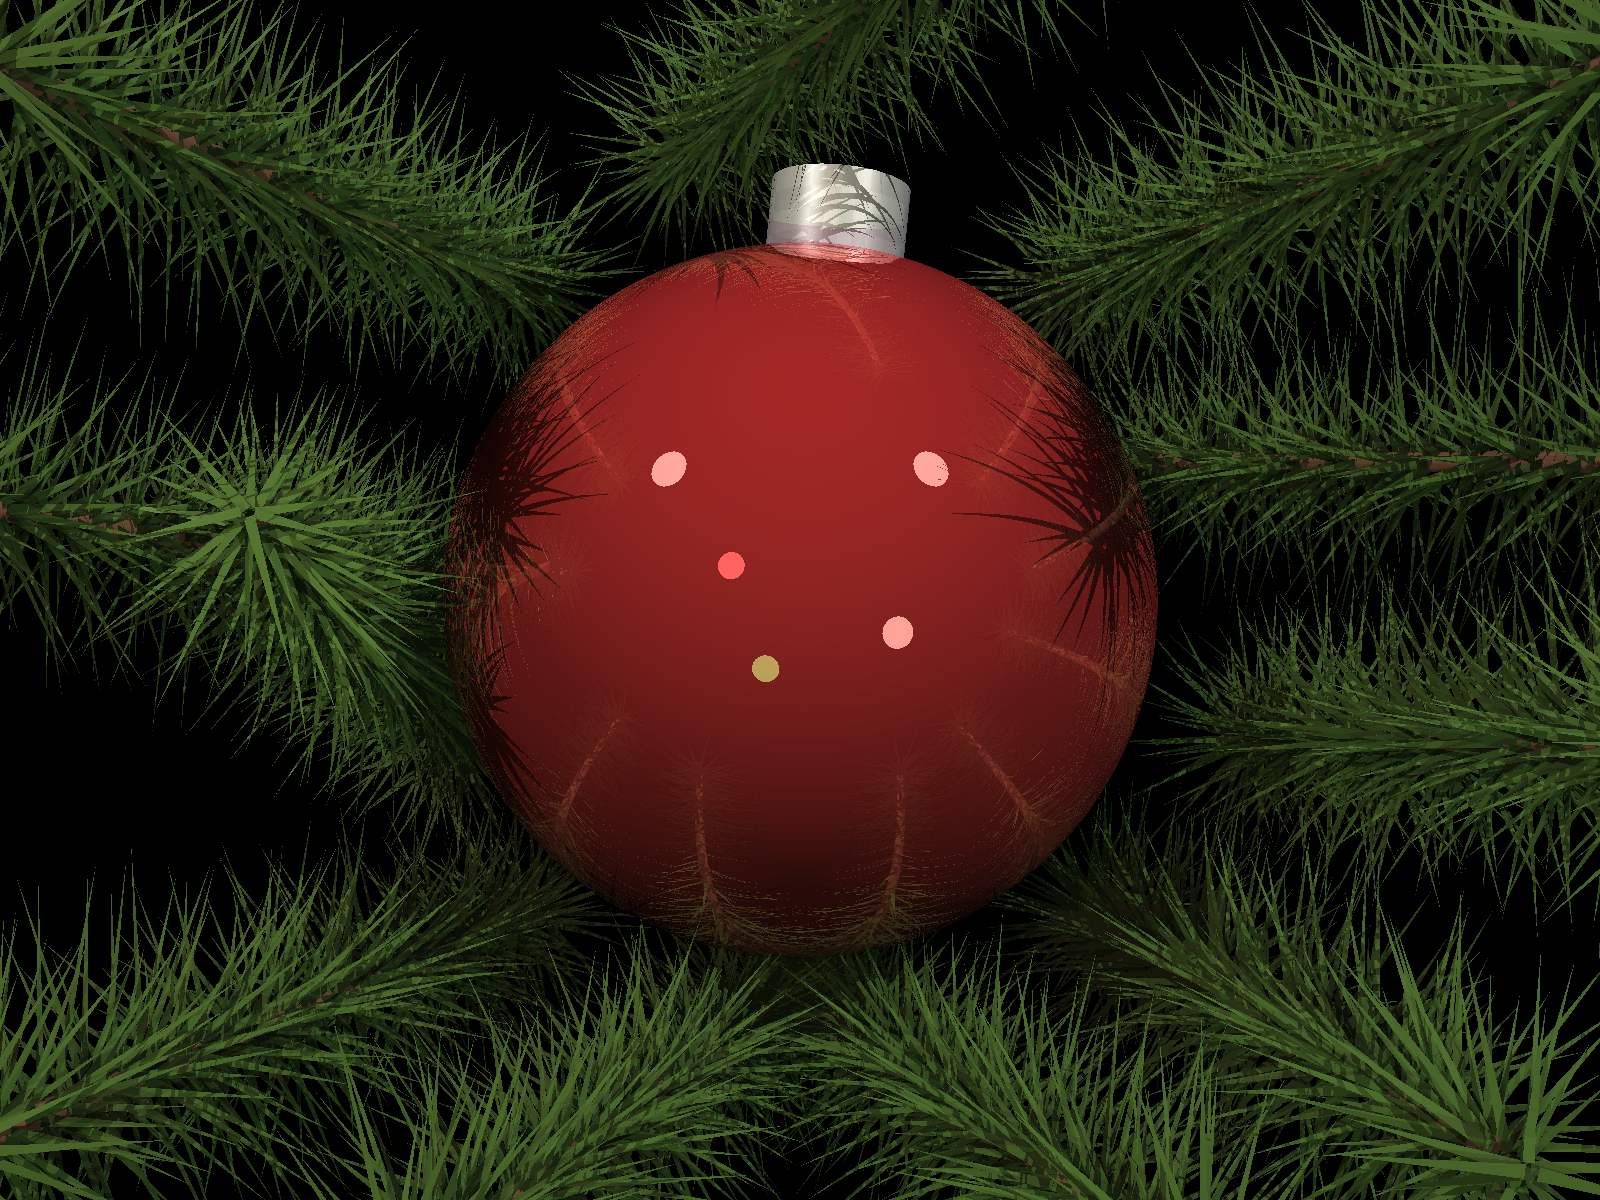
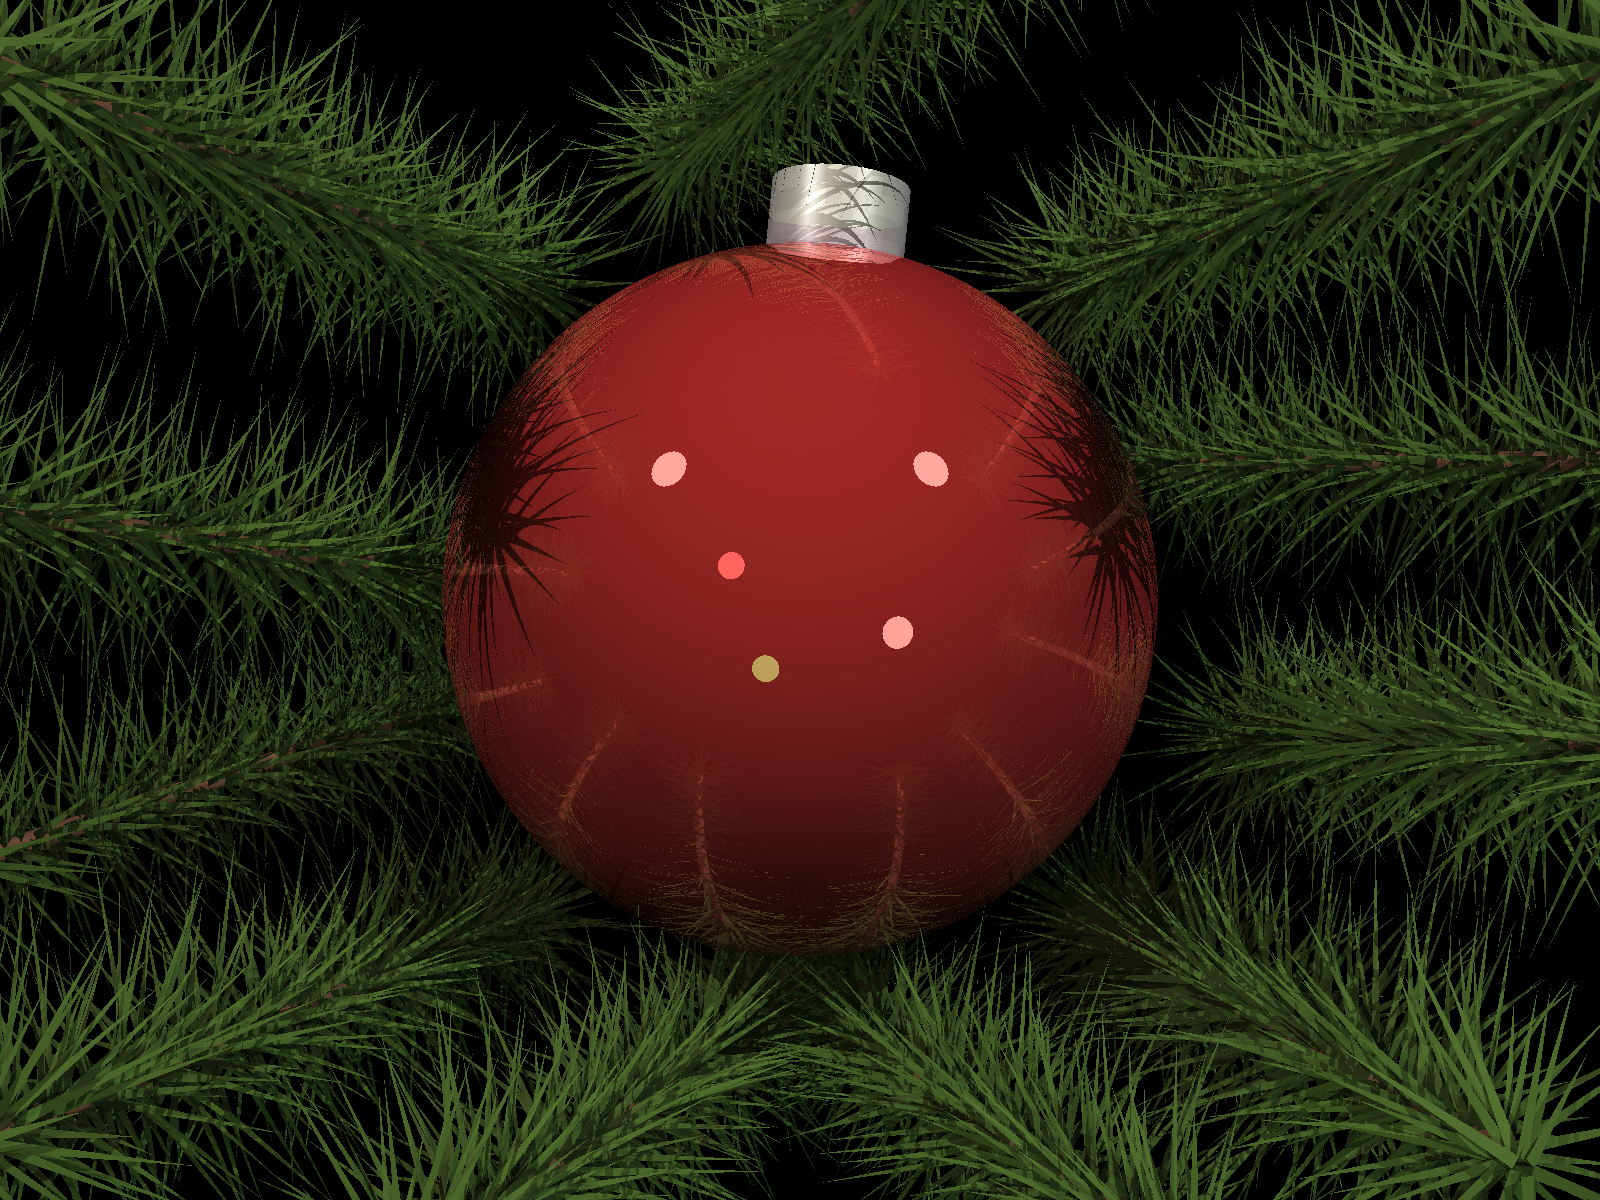
xmas: Fix in rotation.

diff --git a/src/main/kotlin/apps/ch15_xmas.kt b/src/main/kotlin/apps/ch15_xmas.kt
@@ -152,11 +152,11 @@ fun main() {
                 Matrix.translate(-0.2, -1.25, 0) * Matrix.rotateY(PI / 9),
                 Matrix.translate(-1.2, 0.1, 0) * Matrix.rotateY(PI / 6) *
                         Matrix.rotateX(PI / 36),
-                Matrix.translate(-1.2, -0.35, 0.5) * Matrix.rotateX(PI / 6) *
+                Matrix.translate(-1.2, -0.35, 0.5) * Matrix.rotateY(PI / 6) *
                         Matrix.rotateX(-PI / 18),
                 Matrix.translate(-0.2, 1.5, 0.25) * Matrix.rotateY(-PI / 6) *
                         Matrix.rotateX(PI / 36),
-                Matrix.translate(1.3, 0.4, 0) * Matrix.rotateY(- PI / 6) *
+                Matrix.translate(1.3, 0.4, 0) * Matrix.rotateY(-PI / 6) *
                         Matrix.rotateX(-PI / 36),
                 Matrix.translate(1.5, -0.4, 0) * Matrix.rotateY(-PI / 18) *
                         Matrix.rotateX(PI / 36)
